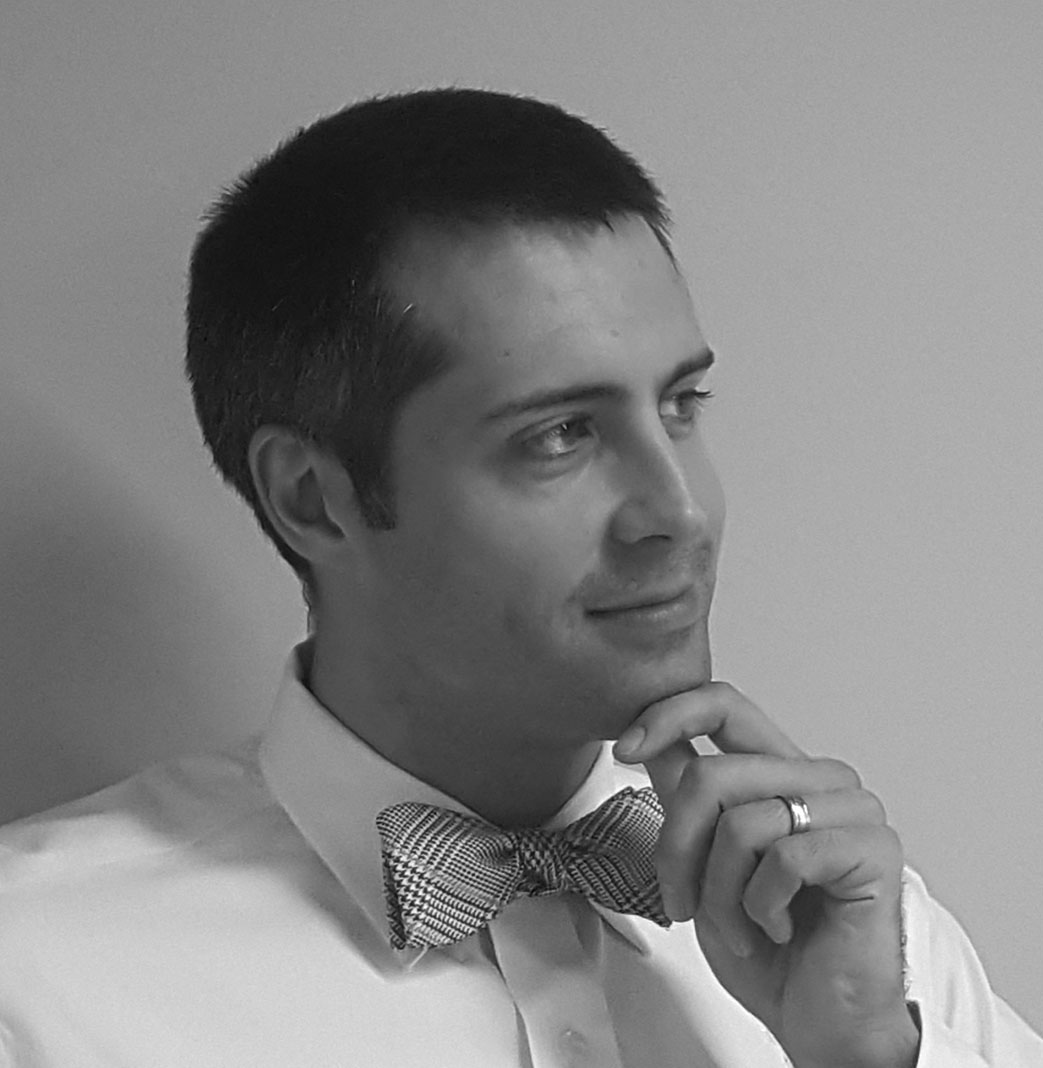
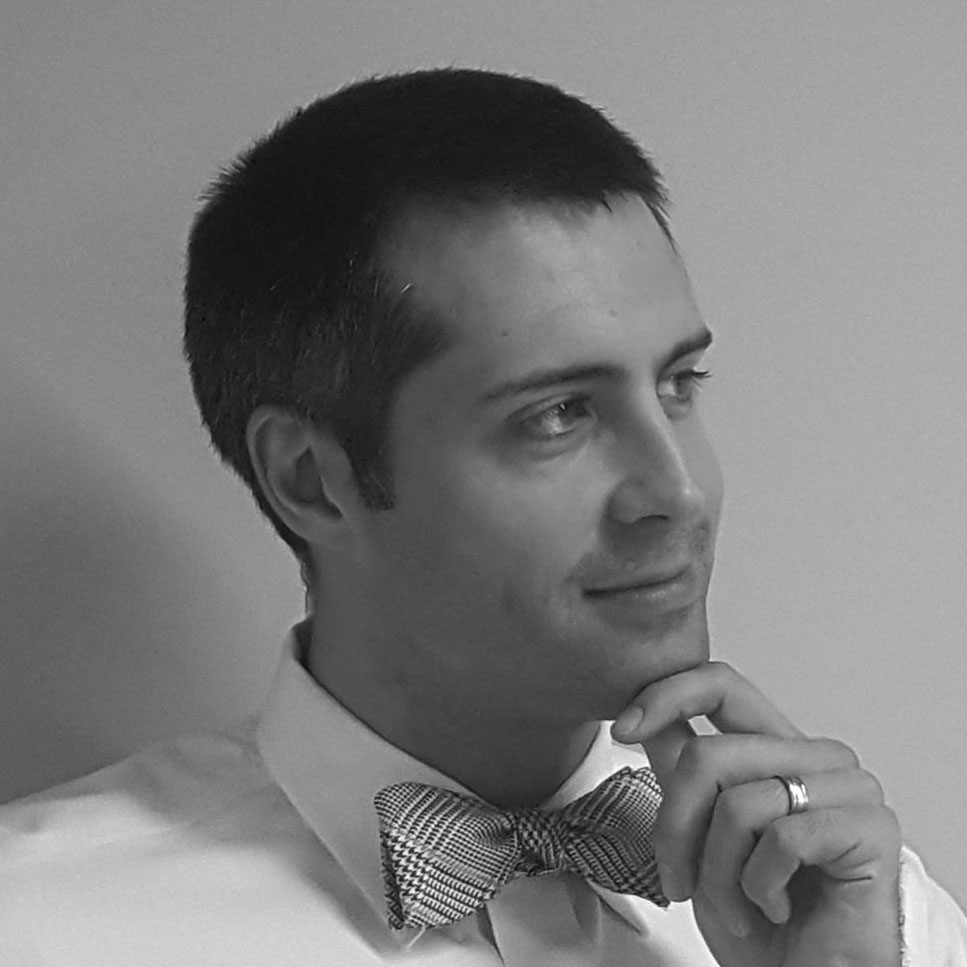
bio page css, image resize, onhover change image

diff --git a/hosts.html b/hosts.html
@@ -15,31 +15,31 @@
       <a href='hosts.html'><p class='menu'>Y</p><p class='menu'>O</p><p class='menu'>U</p><p class='menu'>R</p><p class='menu blank'>B</p><p class='menu'>H</p><p class='menu'>O</p><p class='menu'>S</p><p class='menu'>T</p><p class='menu'>S</p></a>
     </nav>
     <div class='welcome'>
-      <h1>Procrastinator Generator</h1>
+      <h1>PROCASTINATOR GENERATOR</h1>
     </div>
     <div class="page-body">
     <header>
-      <h2>Our Team</h2>
+      <h2>Meet Your Hosts</h2>
     </header>
       <div class="profile-name">
-        <img class="profile-img" src="imgs/mark1.jpg"/>
+        <img class="profile-img" src="imgs/mark1.jpg" onmouseover="src='imgs/mark2.jpg'" onmouseout="src='imgs/mark1.jpg'"/>
         <h3>Mark Reynoso</h3>
-        <p>Lorem ipsum dolor sit amet, consectetur adipisicing elit, sed do eiusmod tempor incididunt ut labore et dolore magna aliqua. Ut enim ad minim veniam, quis nostrud exercitation ullamco laboris nisi ut aliquip ex ea commodo consequat. Duis aute irure dolor in reprehenderit in voluptate velit esse cillum dolore eu fugiat nulla pariatur. Excepteur sint occaecat cupidatat non proident, sunt in culpa qui officia deserunt mollit anim id est laborum.</p>
+        <p>Mark hails from the Island of Whidbey in the great Pacific Northwest. He has found his way into the wonderful world of coding via non-profit fundraising and someday hopes to marry the two paths into some useful technology to benefit those in need. For fun, you might find Mark playing on his boat, hiking in the mountains, or just hanging out with his wife Janna and two little boys, Silas and Caleb.</p>
       </div>
       <div class="profile-name">
-        <img class="profile-img" src="imgs/ozge1.jpg"/>
+        <img class="profile-img" src="imgs/ozge1.jpg" onmouseover="src='imgs/ozge2.jpg'" onmouseout="src='imgs/ozge1.jpg'"/>
         <h3>Ozge Kantar</h3>
         <p>Hello, I am Ozge. I am originly from Turkey. I like swimming, hiking, traveling.I have 2 years working experience as an Oracle Database admin. I wanted to have coding experince, so that I decided to attend CodeFellows. I am happy about my desicion. It was great working with you all.</p>
+      </div>
       <div class="profile-name">
-        <img class="profile-img" src="imgs/will1.jpg"/>
+        <img class="profile-img" src="imgs/will1.jpg" onmouseover="src='imgs/will2.jpg'" onmouseout="src='imgs/will1.jpg'"/>
         <h3>Will Reid</h3>
-        <p>Lorem ipsum dolor sit amet, consectetur adipisicing elit, sed do eiusmod tempor incididunt ut labore et dolore magna aliqua. Ut enim ad minim veniam, quis nostrud exercitation ullamco laboris nisi ut aliquip ex ea commodo consequat. Duis aute irure dolor in reprehenderit in voluptate velit esse cillum dolore eu fugiat nulla pariatur. Excepteur sint occaecat cupidatat non proident, sunt in culpa qui officia deserunt mollit anim id est laborum.</p>
+        <p>Will has lived in Seattle for almost six years, and he no longer owns an umbrella, so he feels like a true native at this point. He has worked to deliver technology solutions in the real estate industry since 2012.</p>
       </div>
       <div class="profile-name">
-        <img class="profile-img" src="imgs/sean1.jpg"/>
+        <img class="profile-img" src="imgs/sean1.jpg" onmouseover="src='imgs/sean2.jpg'" onmouseout="src='imgs/sean1.jpg'"/>
         <h3>Sean Padgett</h3>
-        <p>Lorem ipsum dolor sit amet, consectetur adipisicing elit, sed do eiusmod tempor incididunt ut labore et dolore magna aliqua. Ut enim ad minim veniam, quis nostrud exercitation ullamco laboris nisi ut aliquip ex ea commodo consequat. Duis aute irure dolor in reprehenderit in voluptate velit esse cillum dolore eu fugiat nulla pariatur. Excepteur sint occaecat cupidatat non proident, sunt in culpa qui officia deserunt mollit anim id est laborum.</p>
-      </div>
+        <p>Sean is originally from a place called Paradise, CA. He spent some time in the Navy as a diesel mechanic and soon plans to become a part of the US Forest Service. In his off-time, he spends time on adventures around the Great PNW with his girlfriend.</p>
       </div>
       <footer>Procrastinator Generator &copy; 2017</footer>
     </div>

diff --git a/style.css b/style.css
@@ -2,20 +2,22 @@
   background-color: rgba(138, 110, 236, .5);
   margin-left: 15%;
   margin-right: 15%;
-  padding-top: 5%;
+  padding-top: 2%;
   padding-bottom: 5%;
 }
 .profile-name {
   margin-left: 10%;
   margin-right: 10%;
   margin-bottom: 15%;
+  font-size: 24px;
+  color: white;
 }
 .profile-img {
   border-radius: 100%;
   float: left;
   margin-right: 3%;
-  height: 22%;
-  width: 22%;
+  height: 200px;
+  width: 200px;
   border-width: 5px;
   border-style: solid;
 }
@@ -172,10 +174,12 @@ footer {
 body {
   background-image: url(images/pink_background.jpg);
   background-size: 100%;
+  background-repeat: no-repeat;
+  background-attachment: fixed;
 }
 #wheel {
   width: 100%;
-  position: absolute;
+  position: fixed;
   text-align: center;
   padding-top: 150px;
   z-index: -1;
